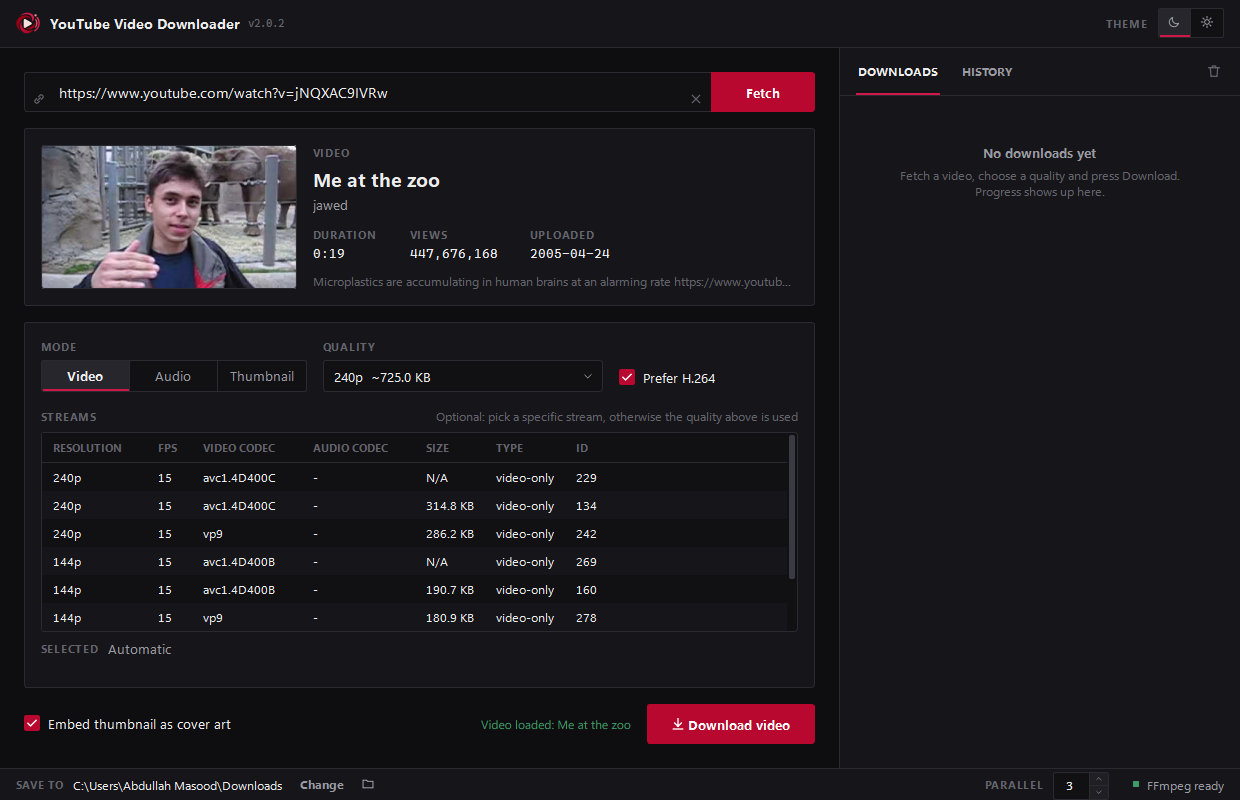
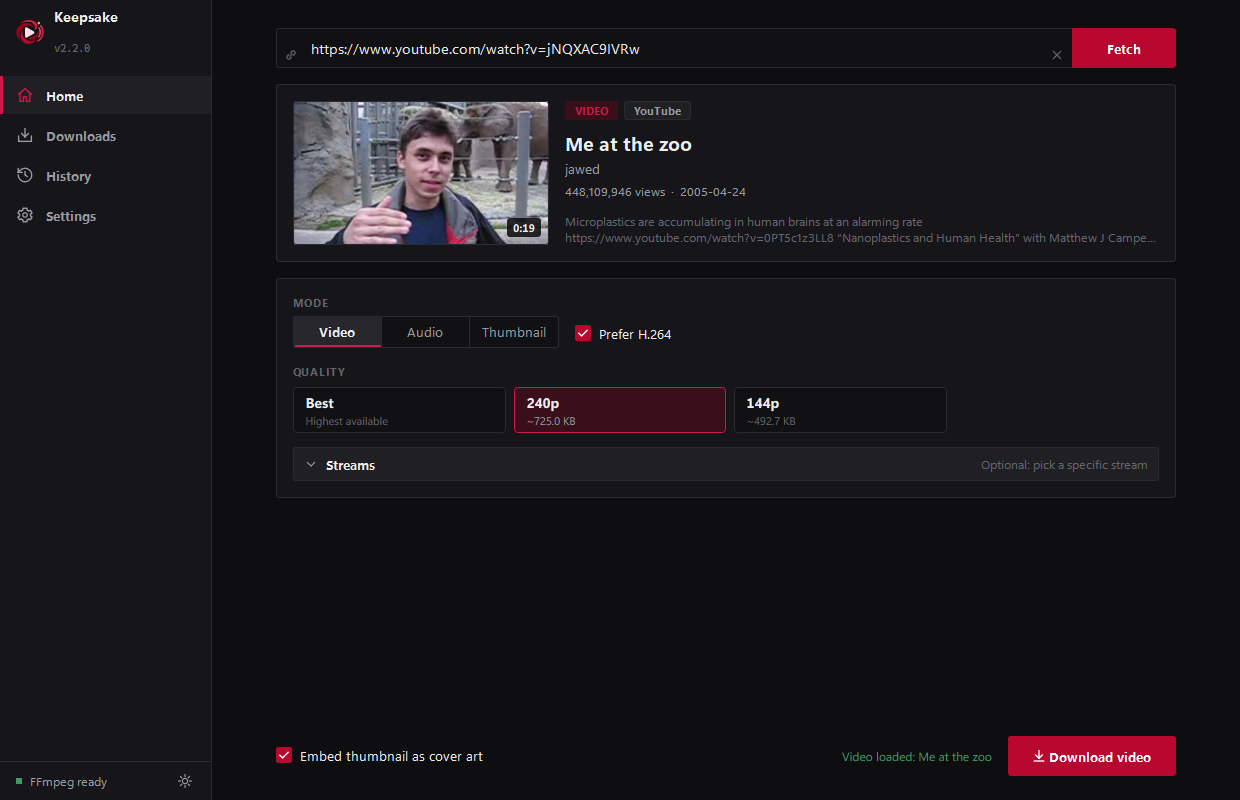
docs: new screenshots and wording for the sidebar layout

diff --git a/Readme.md b/Readme.md
@@ -7,14 +7,14 @@
 Keepsake (formerly *Fetchly* and *YouTube Video Downloader*) is a desktop app for Windows, Linux and macOS for downloading videos, audio and thumbnails from YouTube and
 1,000+ other sites supported by [yt-dlp](https://github.com/yt-dlp/yt-dlp) (Vimeo, SoundCloud,
 Dailymotion, Bandcamp, Twitch, X, Reddit, TikTok, Instagram, archive.org and more), built on yt-dlp and PyQt6.
-The footer has a **Supported sites** link that opens a searchable list.
+**Settings** has a **Supported sites** button that opens a searchable list.
 
 ![Dark theme](docs/screenshots/dark.png)
 
 ## Features
 
 - Works with YouTube and 1,000+ other sites, not just YouTube
-- **Cookies** option in the footer (Firefox, Chrome, Edge, Brave, Opera, Vivaldi, Chromium, plus Safari on macOS) to
+- **Cookies** option in Settings (Firefox, Chrome, Edge, Brave, Opera, Vivaldi, Chromium, plus Safari on macOS) to
   download login-only or age-restricted content with your browser's session. On Windows, Firefox is recommended
   because Chrome-based browsers encrypt their cookies in a way that blocks access.
 - Quality list built from what each video actually offers (no fake 4K options)
@@ -22,6 +22,7 @@ The footer has a **Supported sites** link that opens a searchable list.
 - Embedded cover art and metadata
 - Parallel downloads with progress, speed and ETA; download history
 - Saves to your Downloads folder by default
+- Sidebar layout with Home, Downloads, History and Settings pages, smooth animations and notifications
 - Dark theme by default, with a light theme switch
 
 ![Light theme](docs/screenshots/light.png)
